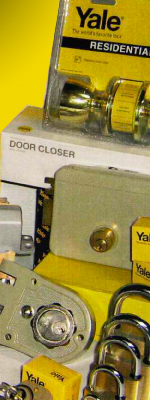
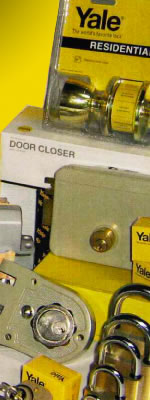
change images from png to jpg

diff --git a/public/stylesheets/grid.css b/public/stylesheets/grid.css
@@ -342,23 +342,23 @@ a img {
 }
 /* line 34, ../../views/css/pageDetails/_catalogo.sass */
 .bigGrid li.metalmecanica {
-  background-image: url(/images/catalogo_marca_soldadura.png);
+  background-image: url(/images/catalogo_marca_soldadura.jpg);
 }
 /* line 37, ../../views/css/pageDetails/_catalogo.sass */
 .bigGrid li.cerrajeria {
-  background-image: url(/images/catalogo_marca_yale.png);
+  background-image: url(/images/catalogo_marca_yale.jpg);
 }
 /* line 40, ../../views/css/pageDetails/_catalogo.sass */
 .bigGrid li.electrico {
-  background-image: url(/images/catalogo_marca_electrico.png);
+  background-image: url(/images/catalogo_marca_electrico.jpg);
 }
 /* line 43, ../../views/css/pageDetails/_catalogo.sass */
 .bigGrid li.ferreteria {
-  background-image: url(/images/catalogo_marca_ferreteria.png);
+  background-image: url(/images/catalogo_marca_ferreteria.jpg);
 }
 /* line 46, ../../views/css/pageDetails/_catalogo.sass */
 .bigGrid li.maderas {
-  background-image: url(/images/catalogo_marca_madera.png);
+  background-image: url(/images/catalogo_marca_madera.jpg);
 }
 /* line 49, ../../views/css/pageDetails/_catalogo.sass */
 .bigGrid ul {

diff --git a/views/css/pageDetails/_catalogo.sass b/views/css/pageDetails/_catalogo.sass
@@ -32,19 +32,19 @@
 
 
 	li.metalmecanica 
-		background-image: url(/images/catalogo_marca_soldadura.png)
+		background-image: url(/images/catalogo_marca_soldadura.jpg)
 	
 	li.cerrajeria 
-		background-image: url(/images/catalogo_marca_yale.png) 
+		background-image: url(/images/catalogo_marca_yale.jpg) 
 
 	li.electrico 
-		background-image: url(/images/catalogo_marca_electrico.png) 
+		background-image: url(/images/catalogo_marca_electrico.jpg) 
 
 	li.ferreteria 
-		background-image: url(/images/catalogo_marca_ferreteria.png)
+		background-image: url(/images/catalogo_marca_ferreteria.jpg)
  
 	li.maderas 
-		background-image: url(/images/catalogo_marca_madera.png)
+		background-image: url(/images/catalogo_marca_madera.jpg)
  
 	ul 
 		margin-top: 50px 
